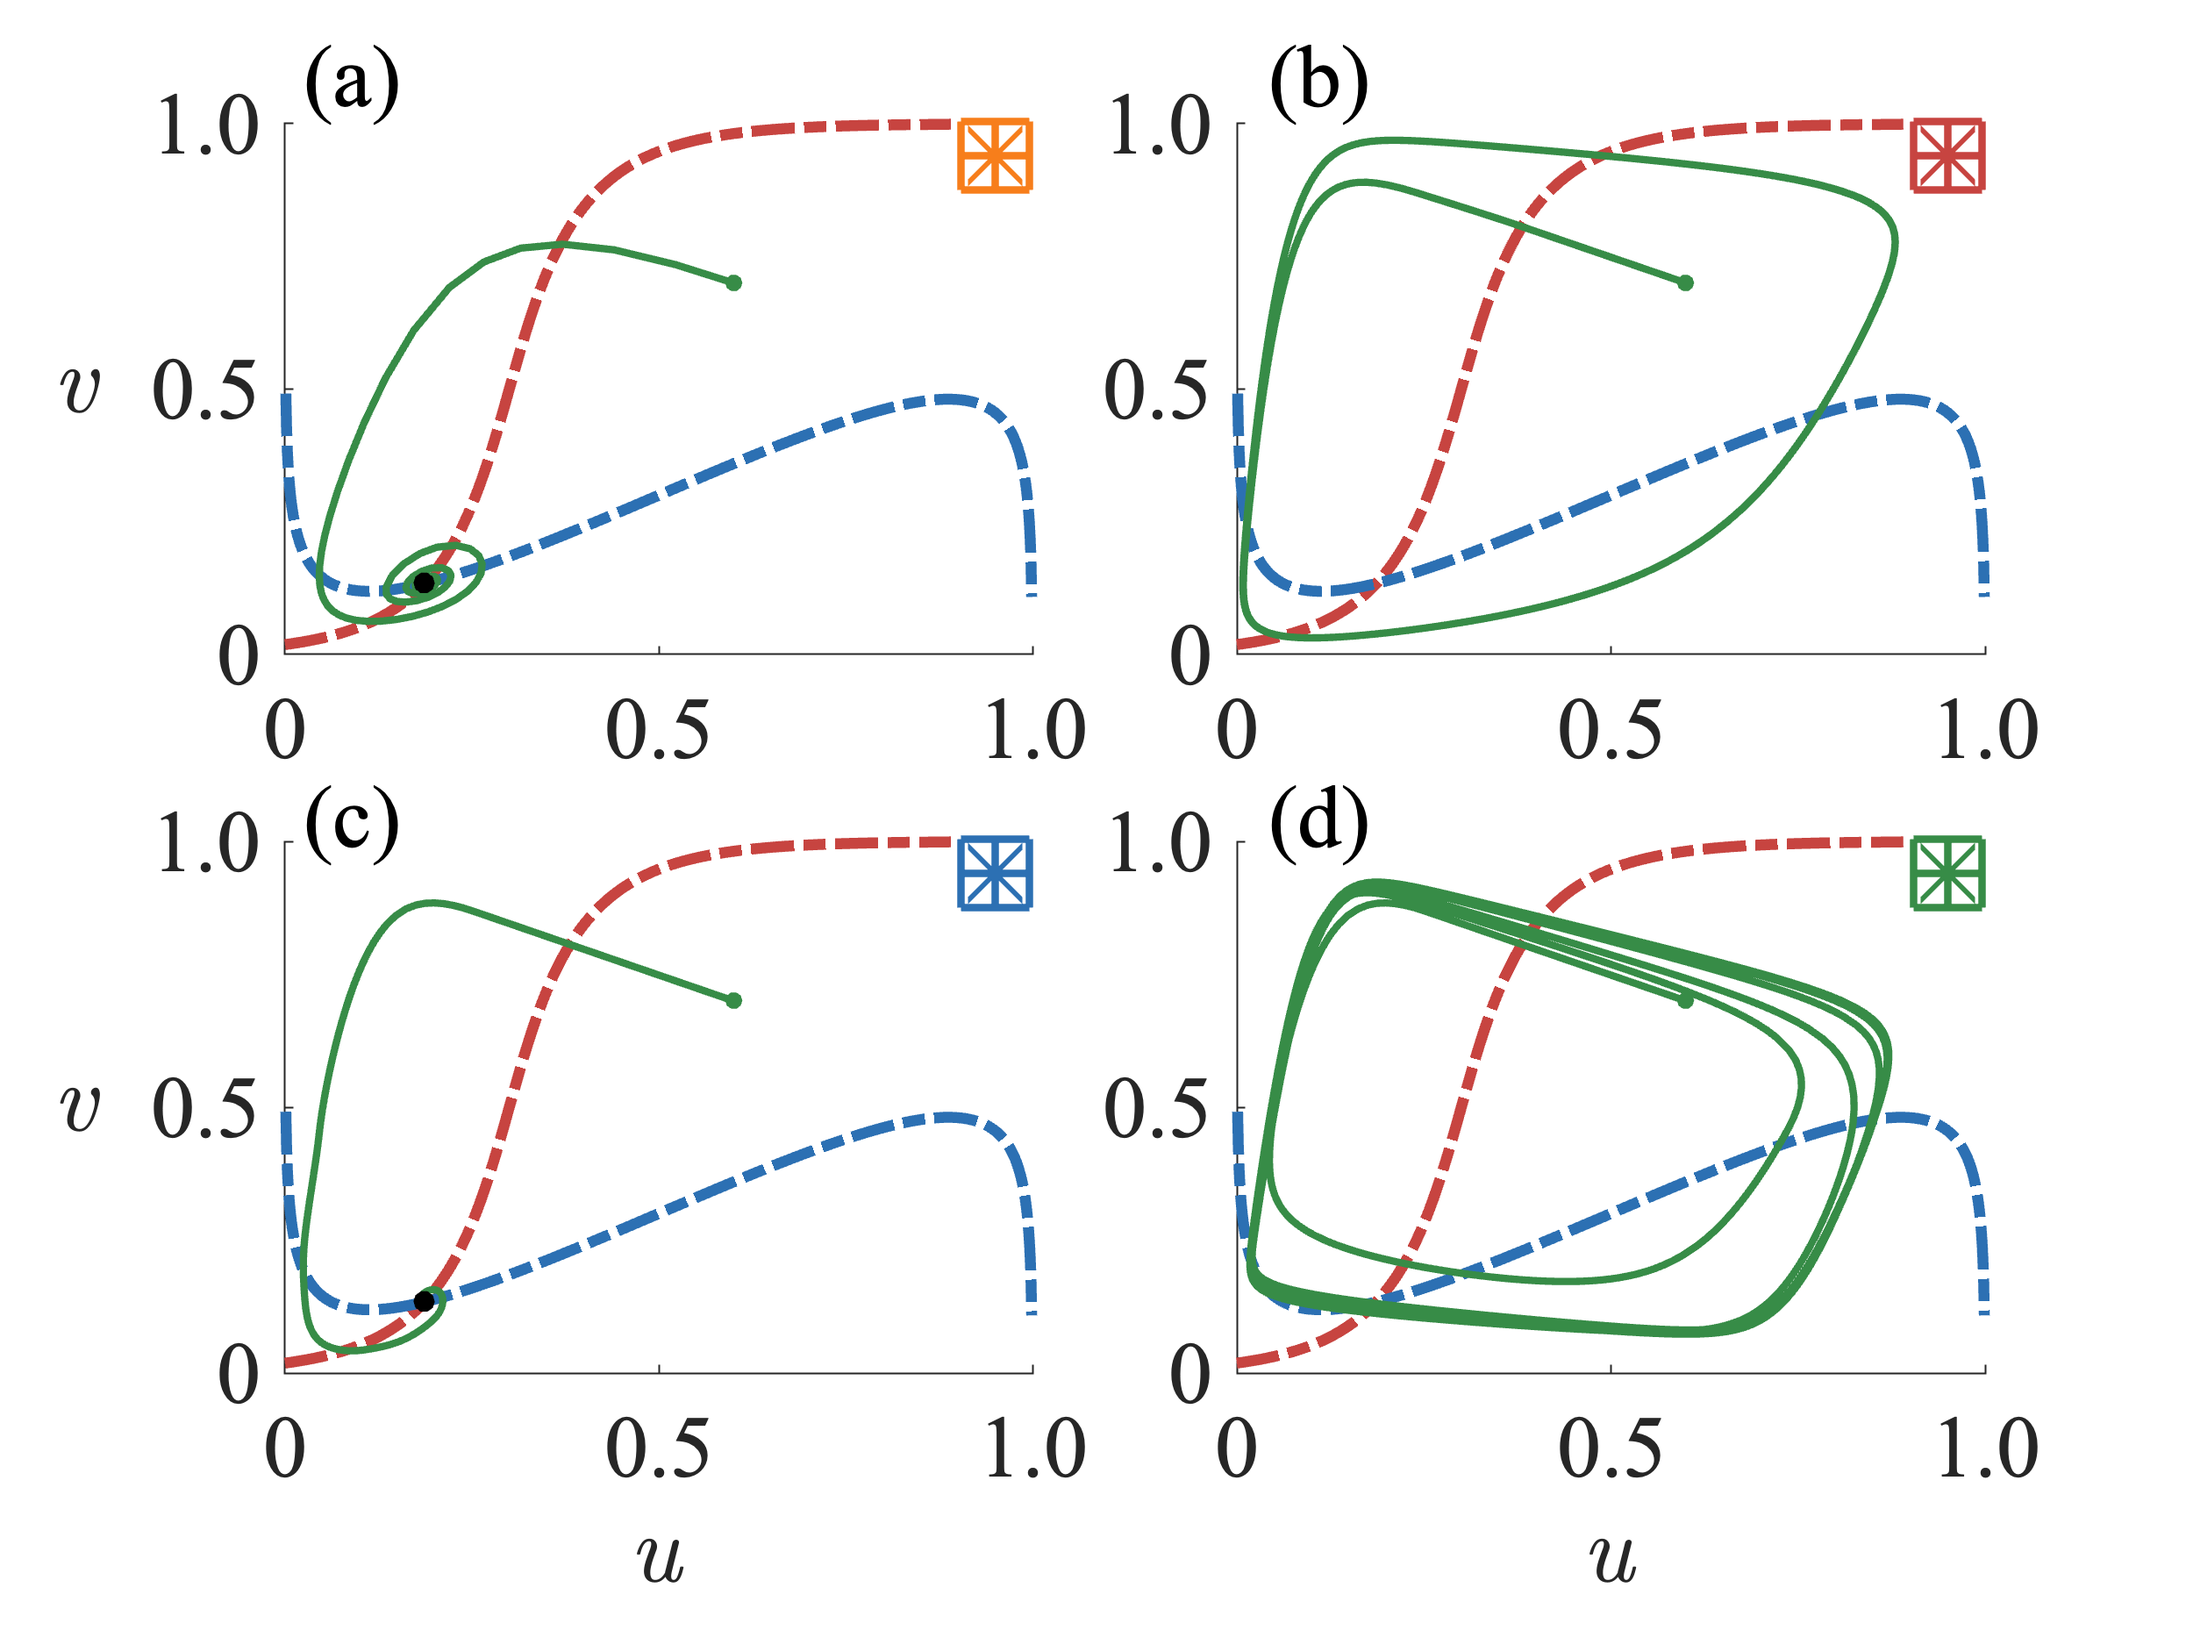
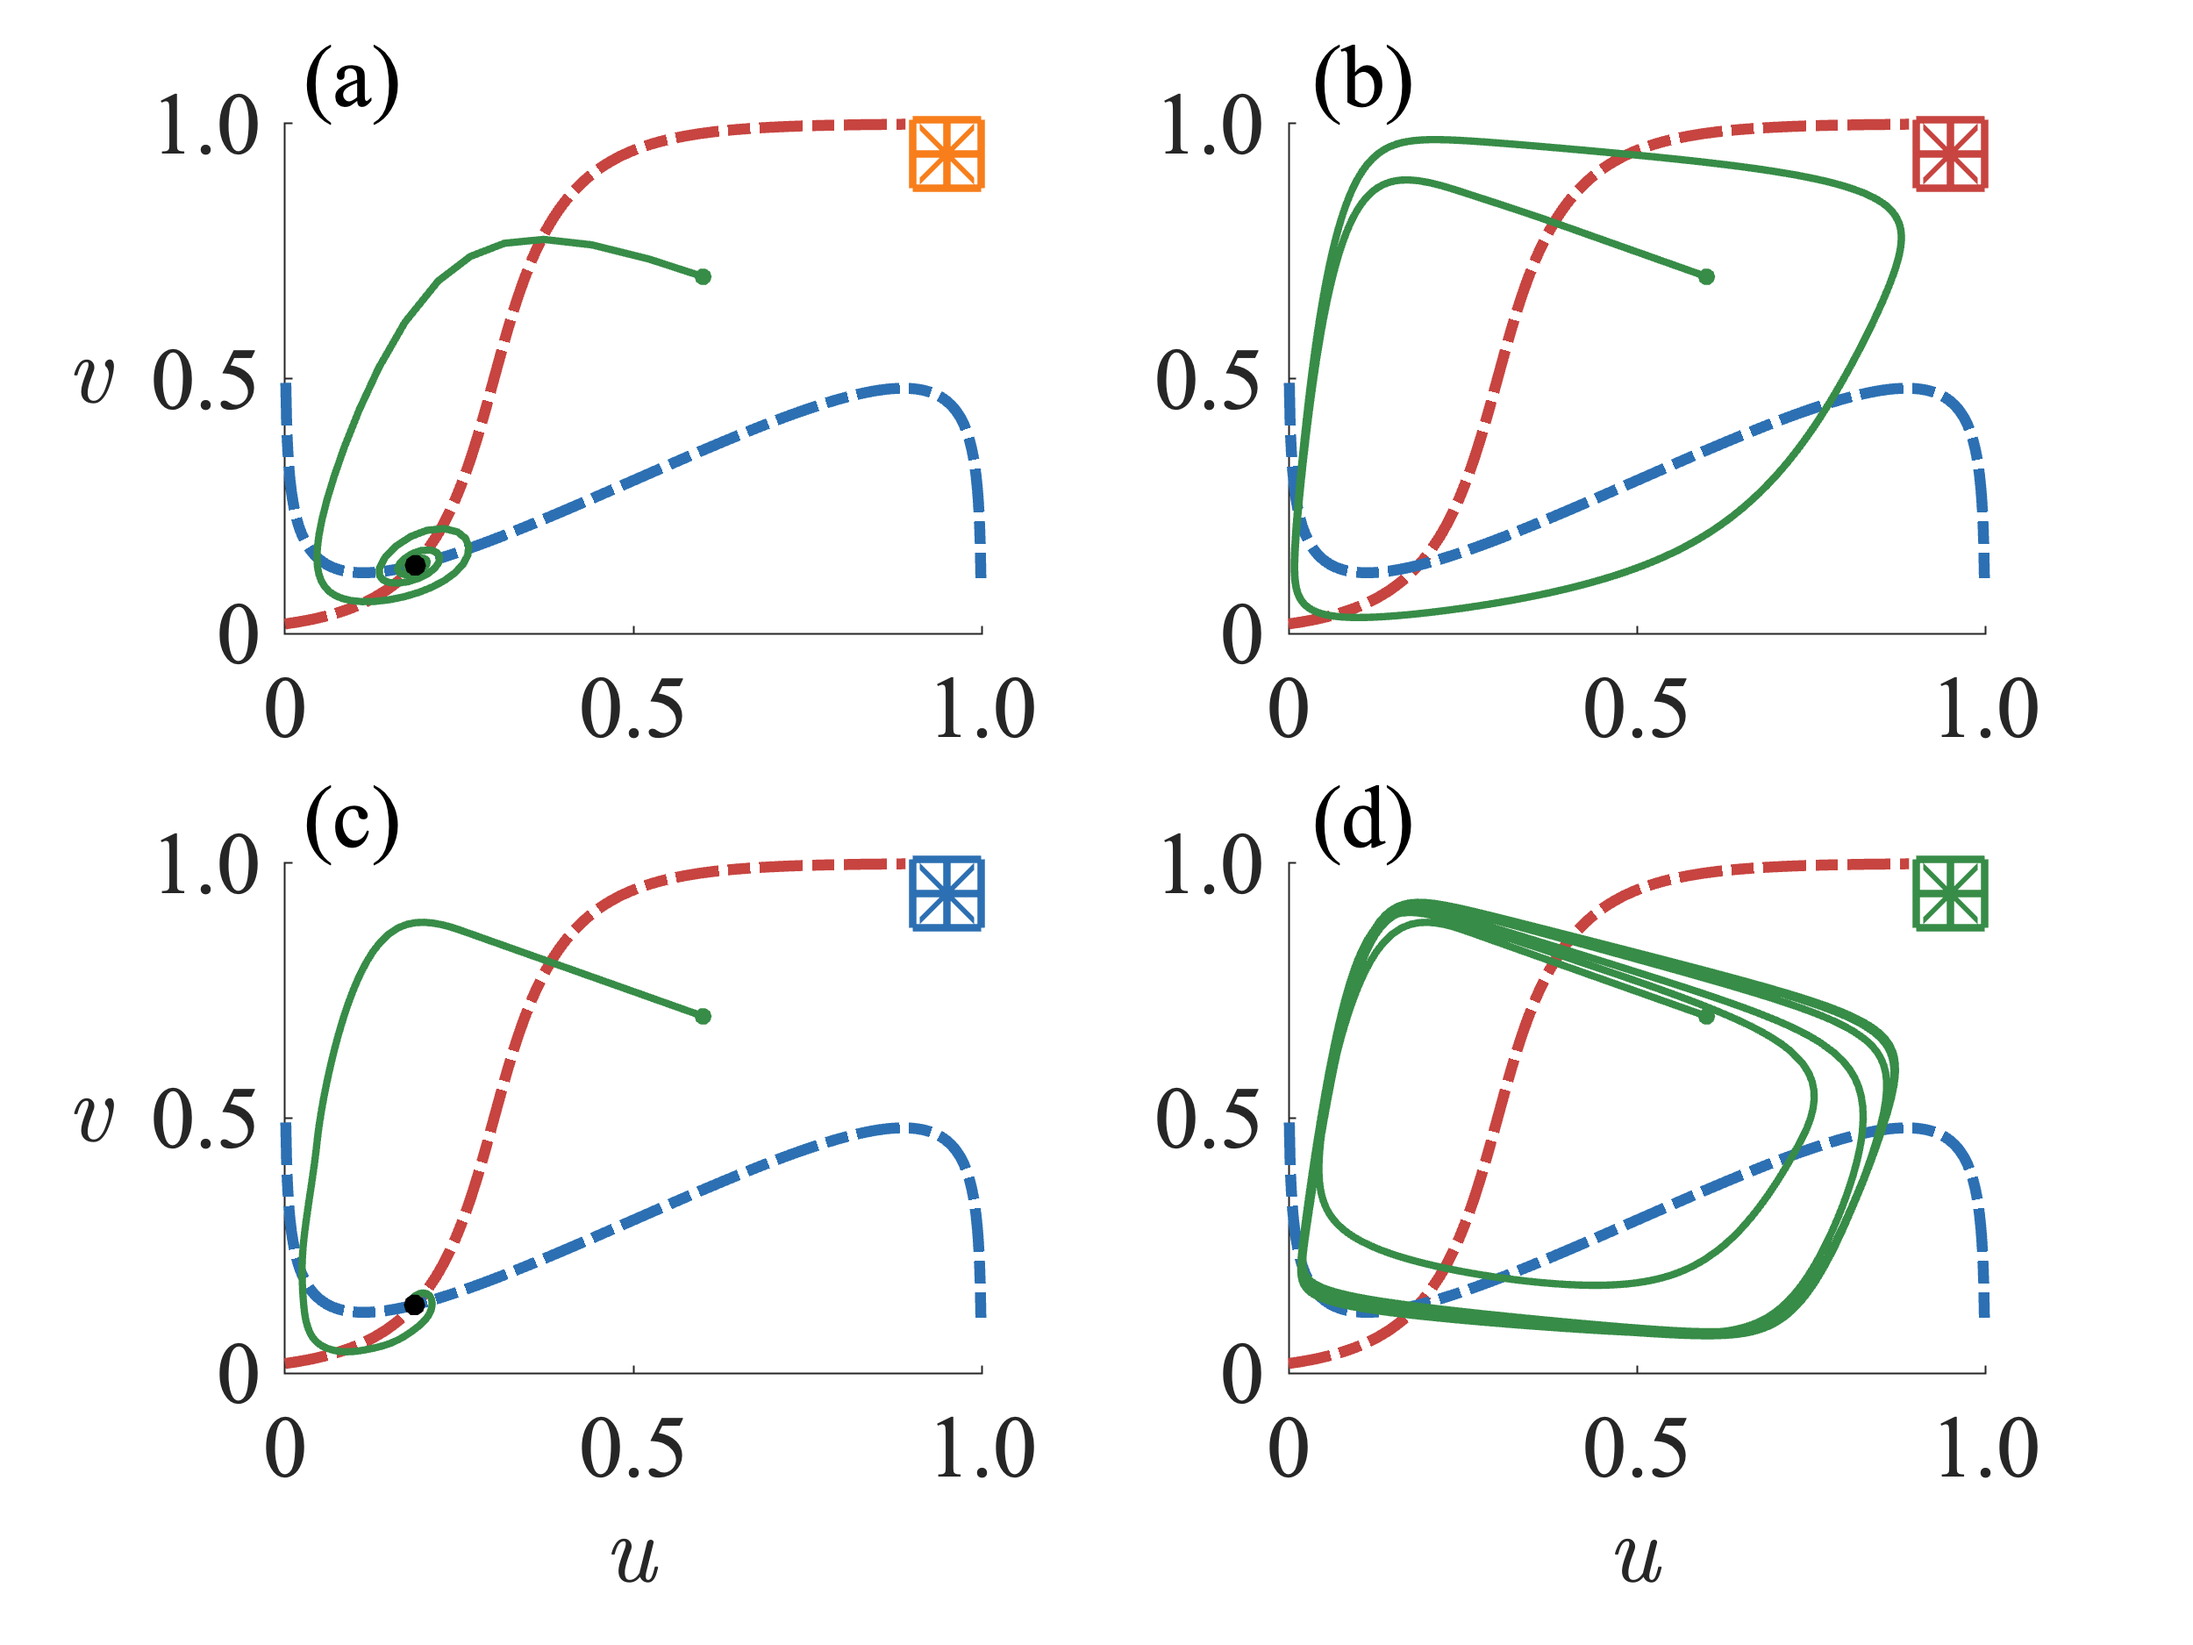
Poster formatting cont.

diff --git a/Code/delay_wilson_cowan.m b/Code/delay_wilson_cowan.m
@@ -36,6 +36,33 @@ plot(bt.theta.uM, bt.theta.vM, 'o', 'color', '#c74440', 'markersize', 16, 'linew
 
 % Plot figure 3 point
 plot(-2, -4, '*', 'color', '#f77e1b', 'markersize', 16, 'linewidth', 2);
+text(-3.1, -3.3, "fig. 3a", 'fontsize', 20, 'fontname', 'times', 'FontAngle', 'italic');
+
+% Define curves bounding oscillatory region
+boundary.u1 = hopf.theta.uP(1:761);
+boundary.v1 = hopf.theta.vP(1:761);
+boundary.u2 = hopf.theta.uP(11579:end);
+boundary.v2 = hopf.theta.vP(11579:end);
+boundary.u3 = hopf.theta.uM(1:6946);
+boundary.v3 = hopf.theta.vM(1:6946);
+boundary.u4 = hopf.theta.uM(17764:end);
+boundary.v4 = hopf.theta.vM(17764:end);
+boundary.u5 = sn.theta.uP(33:3186);
+boundary.v5 = sn.theta.vP(33:3186);
+boundary.u6 = sn.theta.uM(74274:77427);
+boundary.v6 = sn.theta.vM(74274:77427);
+
+% Concatenate boundaries into one curve
+boundary.u = [fliplr(boundary.u1), boundary.u3, ...
+     fliplr(boundary.u5), boundary.u4, ...
+     fliplr(boundary.u2), boundary.u6];
+boundary.v = [fliplr(boundary.v1), boundary.v3, ...
+     fliplr(boundary.v5), boundary.v4, ...
+     fliplr(boundary.v2), boundary.v6];
+
+% Plot oscillatory region
+fill(boundary.u, boundary.v, [0.8, 0.8, 0.8], ...
+    'facealpha', 0.3, 'edgecolor', 'none'); % Light grey shading
 
 % Format axes
 xlabel("$\theta_{\mathit{u}}$", 'interpreter', 'latex');
@@ -54,6 +81,7 @@ set(gca,'fontsize', 24, 'fontname', 'times');
 % Graph Text
 text(0, -9.2, "HB", 'fontsize', 24, 'fontname', 'times');
 text(5, -4, "SN", 'fontsize', 24, 'fontname', 'times');
+text(-0.5, -6, "OR", 'fontsize', 24, 'fontname', 'times');
 
 % Save figure
 print(gcf, '../Figures/Figure_1.png', '-dpng', '-r300');
@@ -282,8 +310,14 @@ clear i x_seg y_seg
 
 % Plot simulation points
 plot(0.5, 1, '*', 'color', '#c74440', 'markersize', 16, 'linewidth', 2);
+text(0.2, 1.11, "fig. 3b", 'fontsize', 20, 'fontname', 'times', 'FontAngle', 'italic');
+
 plot(3, 1, '*', 'color', '#2c70b3', 'markersize', 16, 'linewidth', 2);
+text(2.22, 1.11, "fig. 3c", 'fontsize', 20, 'fontname', 'times', 'FontAngle', 'italic');
+
 plot(6, 1, '*', 'color', '#378c47', 'markersize', 16, 'linewidth', 2);
+text(5, 1.11, "fig. 3d", 'fontsize', 20, 'fontname', 'times', 'FontAngle', 'italic');
+
 
 % Add a colour bar for reference
 colormap(p.c_palette);
@@ -353,7 +387,7 @@ sol.dde_sim_4 = ddeSim(p);
 figure(4);
 set(gcf, 'position', [400, 100, 600, 450]);
 clf;
-tiledlayout(2, 2, 'tilespacing', 'compact', 'padding', 'loose');
+tiledlayout(2, 2, 'tilespacing', 'loose', 'padding', 'loose');
 
 % First subplot
 nexttile; hold on;
@@ -409,7 +443,7 @@ plot(sol.dde_sim_1.y(1,:), sol.dde_sim_1.y(2,:), ...
     '-', 'color', '#378c47', 'linewidth', 2);
 
 % Plot label
-annotation('textbox',[0.57,0.93,0.06,0.06],'string',"(b)", ...
+annotation('textbox',[0.59,0.93,0.06,0.06],'string',"(b)", ...
     'fontsize',24,'fontname','times','edgecolor','none');
 plot(0.95, 0.94, '*', 'color', '#c74440', 'markersize', 20, 'linewidth', 2);
 plot(0.95, 0.94, 'square', 'color', '#c74440', 'markersize', 24, 'linewidth', 2);
@@ -481,7 +515,7 @@ plot(sol.dde_sim_3.y(1,:), sol.dde_sim_3.y(2,:), ...
     '-', 'color', '#378c47', 'linewidth', 2);
 
 % Plot label
-annotation('textbox',[0.57,0.48,0.06,0.06],'string',"(d)", ...
+annotation('textbox',[0.59,0.48,0.06,0.06],'string',"(d)", ...
     'fontsize',24,'fontname','times','edgecolor','none');
 plot(0.95, 0.94, '*', 'color', '#378c47', 'markersize', 20, 'linewidth', 2);
 plot(0.95, 0.94, 'square', 'color', '#378c47', 'markersize', 24, 'linewidth', 2);
@@ -566,11 +600,11 @@ p.tau_1 = 0.2; p.tau_2 = p.tau_1;
 p.tau_1 = 0.09; p.tau_2 = p.tau_1;
 [stst.c, po.c] = ddeBiftoolSection(p);
 
-% Initialise figure 6
+%% Initialise figure 6
 figure(6);
 set(gcf, 'position', [400, 100, 600, 450]);
 clf;
-tiledlayout(3,1,'tilespacing','compact','padding','loose');
+tiledlayout(3,1,'tilespacing','loose','padding','loose');
 
 % Subplot 1 - \tau = 0.5
 nexttile; hold on;
@@ -593,7 +627,7 @@ if isfield(po.a, 'stable2')
 end
 
 % Plot label
-annotation('textbox',[0.14,0.91,0.06,0.06],'string',"(a)", ...
+annotation('textbox',[0.14,0.933,0.06,0.06],'string',"(a)", ...
     'fontsize',24,'fontname','times','edgecolor','none');
 
 % Format axes
@@ -631,7 +665,7 @@ if isfield(po.b, 'stable2')
 end
 
 % Plot label
-annotation('textbox',[0.14,0.62,0.06,0.06],'string',"(b)", ...
+annotation('textbox',[0.14,0.64,0.06,0.06],'string',"(b)", ...
     'fontsize',24,'fontname','times','edgecolor','none');
 
 % Format axes
@@ -669,7 +703,7 @@ if isfield(po.c, 'stable2')
 end
 
 % Plot label
-annotation('textbox',[0.14,0.33,0.06,0.06],'string',"(c)", ...
+annotation('textbox',[0.14,0.345,0.06,0.06],'string',"(c)", ...
     'fontsize',24,'fontname','times','edgecolor','none');
 
 % Format axes
